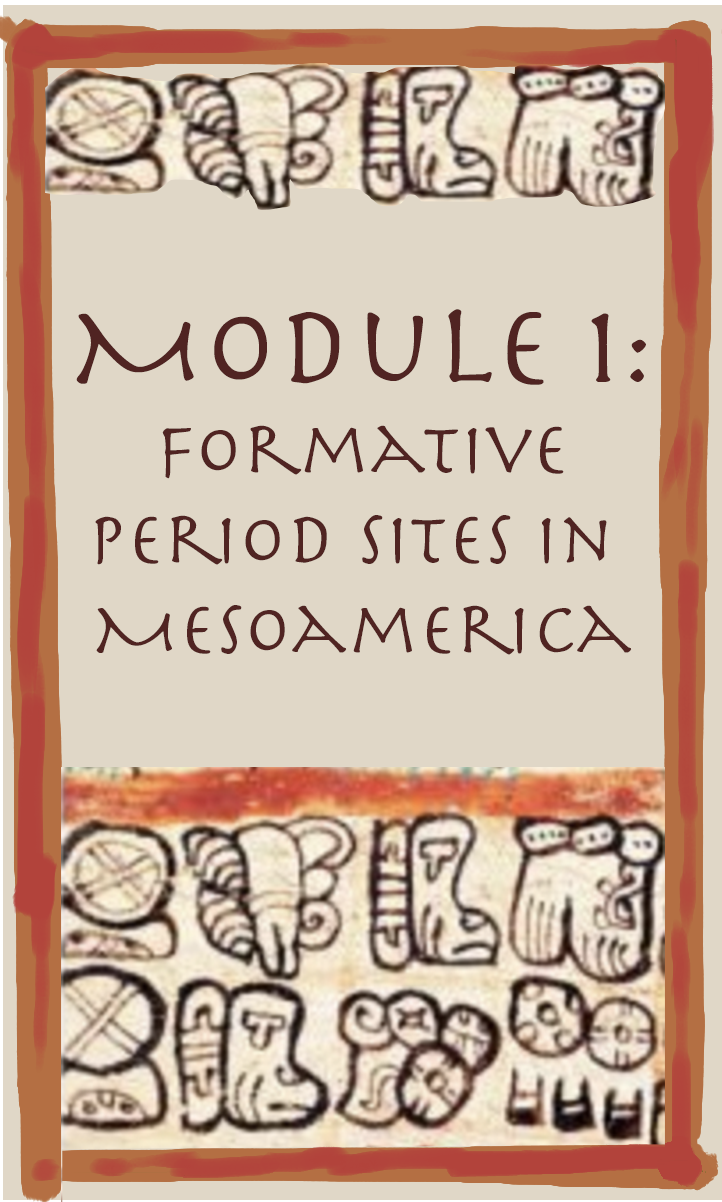
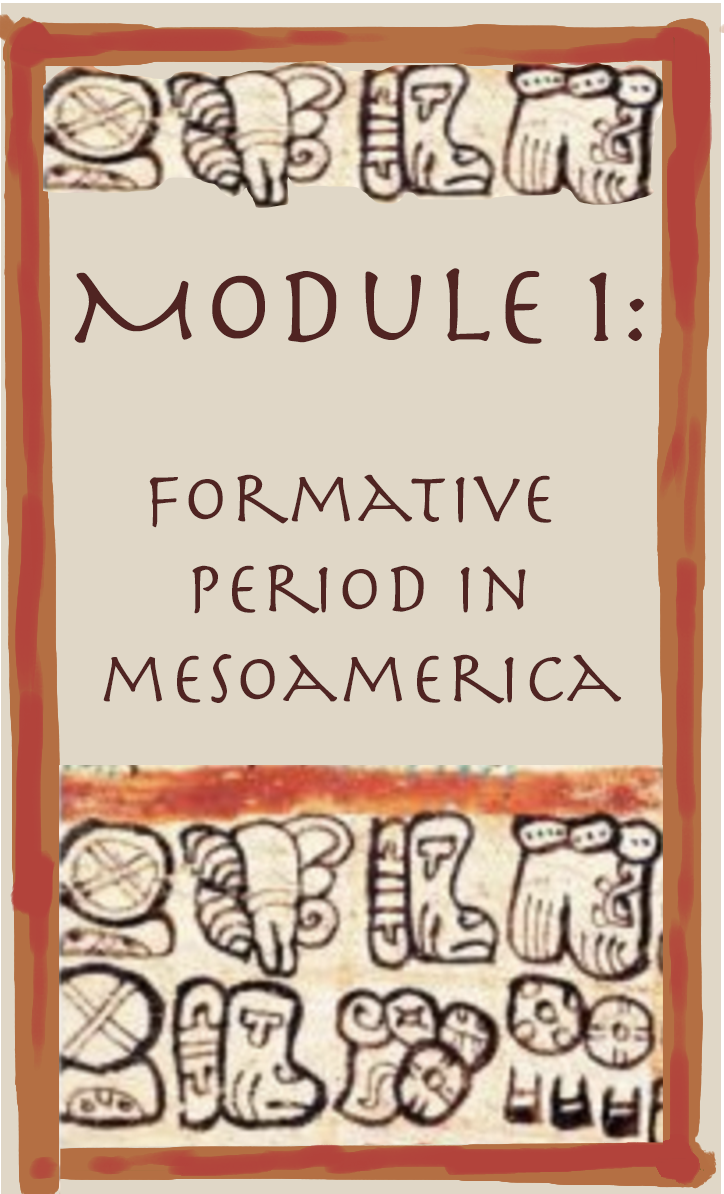
changed titles of modules and wiki background image

Changed region(s): [[0.0, 0.0, 1.0, 1.0]]

diff --git a/moduleTwo.html b/moduleTwo.html
@@ -36,8 +36,8 @@
     </div>
     <script>
     var _PDF_DOC,
-        _CURRENT_PAGE,
-        _TOTAL_PAGES,
+        _CURRENT_PAGE = 1,
+        _TOTAL_PAGES = 3,
         _PAGE_RENDERING_IN_PROGRESS = 0,
         _CANVAS = document.querySelector('#pdf-canvas');
 
@@ -47,7 +47,7 @@
 
             // get handle of pdf document
             try {
-                _PDF_DOC = await pdfjsLib.getDocument({ url: "https://jessealdana.github.io/pyramid-schema/images/LAIS.pdf" });
+                _PDF_DOC = await pdfjsLib.getDocument({ url: "https://jessealdana.github.io/pdf.js/pyramid-schema/images/LAIS.pdf" });
             }
             catch(error) {
                 alert(error.message);
@@ -132,7 +132,7 @@
         // click on "Show PDF" buuton
         document.querySelector("#show-pdf-button").addEventListener('click', function() {
             this.style.display = 'none';
-            showPDF('https://mozilla.github.io/pdf.js/web/compressed.tracemonkey-pldi-09.pdf');
+            showPDF('https://jessealdana.github.io/pdf.js/pyramid-schema/images/LAIS.pdf');
         });
 
         // click on the "Previous" page button

diff --git a/wiki.html b/wiki.html
@@ -8,7 +8,7 @@
     <script src="https://cdn.jsdelivr.net/npm/popper.js@1.16.1/dist/umd/popper.min.js" integrity="sha384-9/reFTGAW83EW2RDu2S0VKaIzap3H66lZH81PoYlFhbGU+6BZp6G7niu735Sk7lN" crossorigin="anonymous"></script>
     <script src="https://stackpath.bootstrapcdn.com/bootstrap/4.5.2/js/bootstrap.min.js" integrity="sha384-B4gt1jrGC7Jh4AgTPSdUtOBvfO8shuf57BaghqFfPlYxofvL8/KUEfYiJOMMV+rV" crossorigin="anonymous"></script>
     <link href="https://fonts.googleapis.com/css2?family=Stardos+Stencil:wght@700&display=swap" rel="stylesheet">
-    <link rel="stylesheet" type="text/css" href="paperStyle.css"/>
+    <link rel="stylesheet" type="text/css" href="shelfStyle.css"/>
     <title>Test Site</title>
 </head>
 <body>
